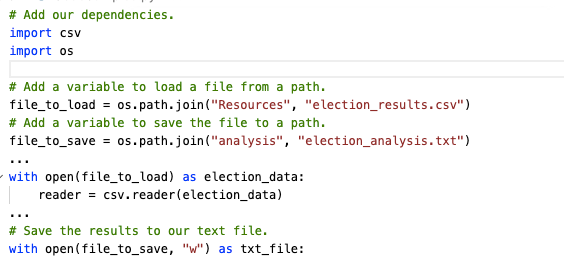
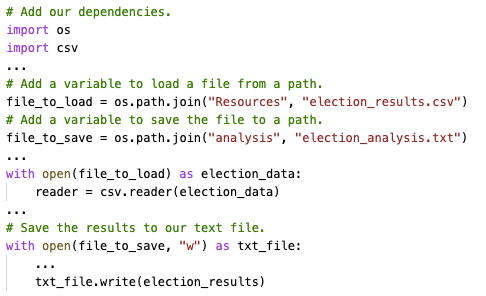
Updating README.md for Challenge

Changed region(s): [[0.0, 0.2667, 0.9568, 0.6815], [0.0, 0.7111, 0.6173, 0.9778], [0.0, 0.0, 0.3395, 0.237]]

diff --git a/README.md b/README.md
@@ -36,9 +36,11 @@ The analysis of the election data shows that:
 
   ## Analysis of Methodology
 The data was provided in a flat csv (comma delimited) file.  
-In order to read and analyze the data, We imported 2 Python modules: <b>csv</b> and <b>os</b>.  
+In order to read and analyze the data, We imported 2 Python modules: <b>os</b> and <b>csv</b>.  
+The os module facilitates using the local file system.
 The csv module makes reading and writing files possible. 
-Here is how we used these modules:
+
+Here are samples of how we used these modules:
 
 <img src=/Resources/FileHandlingCode.png></img>
 
